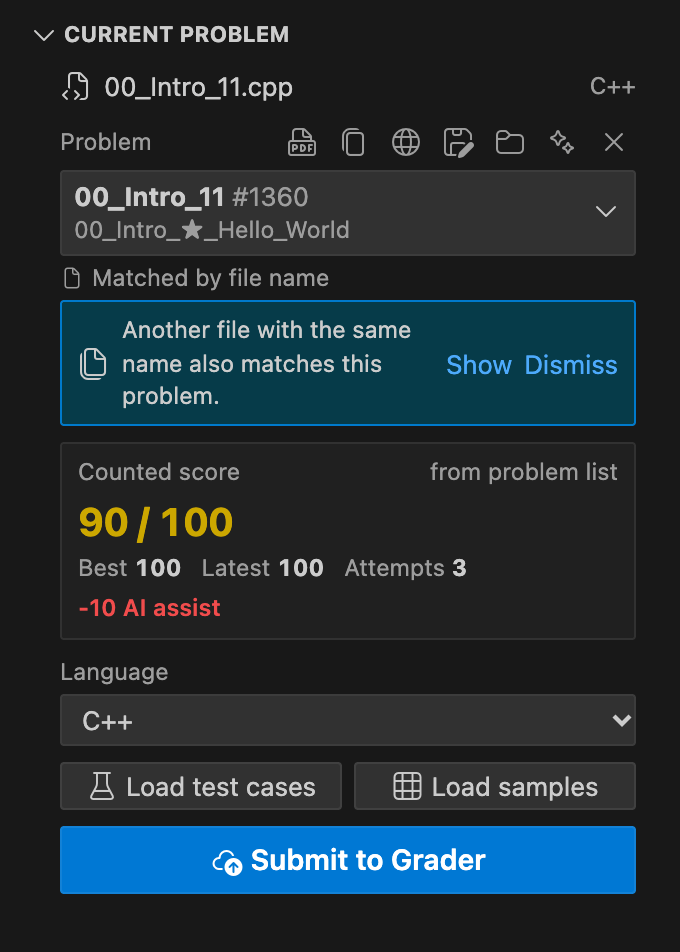
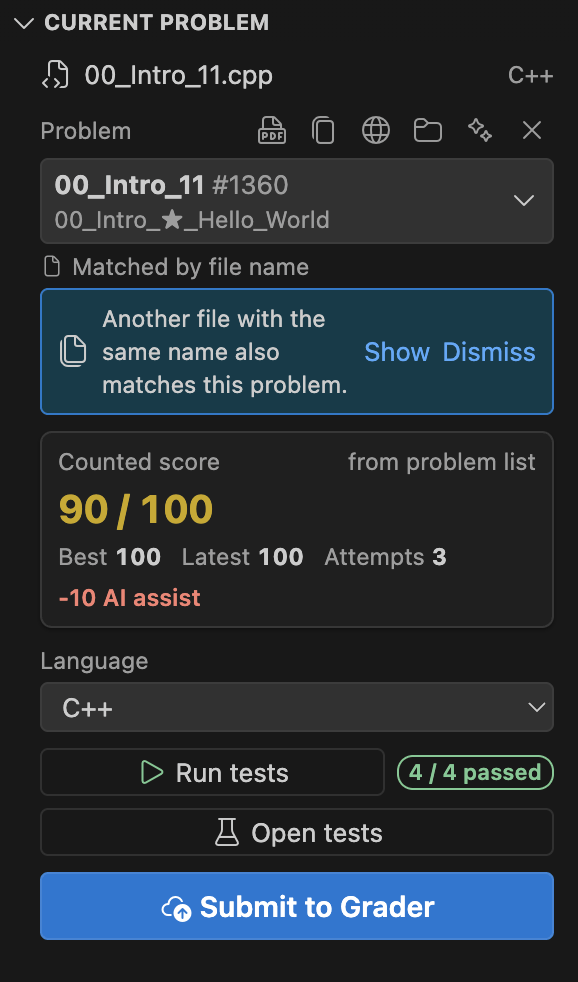
Retake v1.1.0 EN and TH screenshots in macOS VS Code and update docs

diff --git a/USERGUIDE.th.md b/USERGUIDE.th.md
@@ -2,7 +2,7 @@
 
 [English](USERGUIDE.md) · **ภาษาไทย**
 
-[**← กลับไปหน้า README**](README.th.md) · [**คู่มือสำหรับนักพัฒนา (`DEVGUIDE.th.md`)**](DEVGUIDE.th.md) · [**การขอความช่วยเหลือ (`SUPPORT.th.md`)**](SUPPORT.th.md) · [**ประวัติการเปลี่ยนแปลง (`CHANGELOG.md`)**](CHANGELOG.md)
+[**← กลับไปหน้า README**](README.th.md) · [**คู่มือสำหรับนักพัฒนา (`DEVGUIDE.md`)**](DEVGUIDE.md) · [**การขอความช่วยเหลือ (`SUPPORT.md`)**](SUPPORT.md) · [**ประวัติการเปลี่ยนแปลง (`CHANGELOG.md`)**](CHANGELOG.md)
 
 Grader Submit ช่วยให้คุณทำโจทย์บนเซิร์ฟเวอร์ [cafe-grader-web](https://github.com/nattee/cafe-grader-web) ได้ครบทุกขั้นตอนจากใน VS Code ตั้งแต่การจับคู่ไฟล์กับโจทย์ การอ่านโจทย์ PDF ข้างโค้ด ตัวรันทดสอบในตัว การจัดการโจทย์แบบหลายไฟล์ (Folder Mode) การดูผลตรวจสด การเทียบโค้ดกับประวัติการส่ง ป้ายคะแนนใน Explorer ไปจนถึงเอฟเฟกต์ฉลองคะแนนเต็มและหน้าพักสายตา
 
@@ -47,9 +47,17 @@ Grader Submit ช่วยให้คุณทำโจทย์บนเซิ
 - **การย้ายตำแหน่งแผง:** คุณสามารถลากหัวข้อหรือไอคอน **Grader** ไปวางไว้ที่แถบกิจกรรมด้านซ้าย (Primary Sidebar) หรือแผงด้านล่างได้ตามต้องการ โดย VS Code จะจำตำแหน่งที่คุณเลือกไว้เสมอ
 - **สำหรับผู้ใช้ Cursor:** เนื่องจากแถบด้านขวาของ Cursor ถูกจองไว้สำหรับหน้าต่าง AI แผง **Grader** จึงจะเปิดขึ้นทางด้านซ้ายแทน
 
+<p align="center">
+  <img src="media/readme/workbench.th.png" width="760" alt="หน้าต่าง VS Code บน macOS แสดงป้ายคะแนนหน้าชื่อไฟล์ใน Explorer ทางซ้าย เอดิเตอร์โค้ด C++ ตรงกลาง แท็บทดสอบข้างโค้ดที่ล็อกตำแหน่งไว้พร้อมเทียบผลลัพธ์ และแผง Grader บนแถบด้านขวา">
+</p>
+
 ---
 
 ## 2. บัญชี การเลือกเซิร์ฟเวอร์ และปุ่มเปิดเว็บไซต์
+
+<p align="center">
+  <img src="media/readme/account.th.png" width="380" alt="ส่วนบัญชีขณะยังไม่ได้เข้าสู่ระบบ แสดงบรรทัดเซิร์ฟเวอร์พร้อมปุ่มแก้ไข ช่องชื่อผู้ใช้และรหัสผ่าน ช่องติ๊กจำรหัสผ่าน ปุ่มเข้าสู่ระบบ และลิงก์วิธีใช้งานกับการแก้ปัญหาเบื้องต้น">
+</p>
 
 - **บรรทัดเซิร์ฟเวอร์ (`เซิร์ฟเวอร์: <host>`):** ด้านบนสุดของส่วน **บัญชี** ขณะยังไม่ได้เข้าสู่ระบบ จะแสดง `เซิร์ฟเวอร์: cedt-grader.nattee.net` เพื่อบอกให้ชัดเจนว่าจะส่งข้อมูลเข้าสู่ระบบไปที่ใด
 - **การเปลี่ยนเซิร์ฟเวอร์:** คลิกปุ่ม **✎** ท้ายบรรทัด `เซิร์ฟเวอร์:` เพื่อกรอก URL ของเซิร์ฟเวอร์ `cafe-grader-web` อื่น (หรือตั้งค่าที่ `cedtGrader.baseUrl` ใน **User Settings**) ขณะที่คุณพิมพ์หรือกด <kbd>Enter</kbd> ส่วนขยายจะตรวจสอบให้ก่อนว่าเซิร์ฟเวอร์นั้นติดต่อได้และรองรับการใช้งาน (`เซิร์ฟเวอร์นี้พร้อมใช้งาน`) ก่อนที่จะส่งรหัสผ่านของคุณออกไป หากต้องการกลับมาใช้ค่าเดิมให้คลิก **ใช้เซิร์ฟเวอร์เริ่มต้น**
@@ -144,9 +152,13 @@ Grader Submit ช่วยให้คุณทำโจทย์บนเซิ
 
 Grader Submit มีตัวรันทดสอบบนเครื่องที่พร้อมใช้งานทันทีสำหรับภาษา **C++** (`gnu++17 -O2 -DEVAL`), **C** (`gnu11 -O2 -DEVAL`), **Python**, **Java**, **Rust**, **Go**, **Haskell**, **Ruby**, **Pascal** และ **PHP**
 
+<p align="center">
+  <img src="media/readme/tests.th.png" width="380" alt="หน้าต่างทดสอบข้างโค้ดแสดงผลผ่าน 3 / 4 ปุ่มรันทั้งหมด โหลด test case โหลดตัวอย่าง และการกางดูเคสที่ได้ผลลัพธ์ไม่ตรงเพื่อเทียบผลที่ควรได้กับผลที่ได้จริง">
+</p>
+
 ### การโหลด Test Case
 
-ในส่วน **โจทย์ปัจจุบัน** (และด้านบนของหน้า **ทดสอบ**) จะมีปุ่มโหลด 2 ปุ่มวางคู่กัน:
+ด้านบนของหน้า **ทดสอบ** (หรือเรียกผ่าน Command Palette) จะมีปุ่มโหลด 2 ปุ่มวางคู่กัน:
 
 - **โหลด test case:** ดาวน์โหลด test case จาก API ของ Grader (สำหรับโจทย์ที่เปิดให้ดาวน์โหลด) โดยตัดเคสที่ซ้ำกันออกให้อัตโนมัติ และในโหมดโฟลเดอร์จะตัดบรรทัดสุดท้าย `KEY: …` ที่มีเฉพาะใน `main` ของเซิร์ฟเวอร์ออกให้ เพื่อให้รันทดสอบบนเครื่องแล้วตรงกับคำตอบจริง
 - **โหลดตัวอย่าง:** อ่านตารางตัวอย่างอินพุตและเอาต์พุตจากไฟล์ PDF ของโจทย์โดยตรง ใช้ได้กับโจทย์ทุกข้อที่มีตารางตัวอย่างใน PDF แม้ว่าโจทย์นั้นจะไม่เปิดให้ดาวน์โหลด test case จาก Grader ก็ตาม
@@ -219,6 +231,10 @@ Grader Submit มีตัวรันทดสอบบนเครื่อง
 
 Grader Submit แสดงป้ายกำกับและสีสถานะท้ายชื่อไฟล์และโฟลเดอร์โจทย์ใน Explorer รวมถึงแท็บเอดิเตอร์โดยไม่ต้องส่งคำขอเครือข่ายเพิ่ม:
 
+<p align="center">
+  <img src="media/readme/explorer.th.png" width="340" alt="แถบ Explorer ของ VS Code แสดงชื่อไฟล์โค้ดและโฟลเดอร์โจทย์พร้อมป้ายคะแนนที่นับและสีตามสถานะ">
+</p>
+
 - **รูปแบบป้ายกำกับ (`cedtGrader.explorer.badge`):**
   - `score` (ค่าเริ่มต้น): แสดง `✓` เมื่อได้คะแนนเต็ม (`100`), แสดงตัวเลข `0`–`99` เมื่อเคยส่งแล้วแต่ยังไม่เต็ม และแสดง `–` เมื่อยังไม่เคยส่ง
   - `tag`: แสดงอักษรย่อ 2 ตัวแรกของแท็กหัวข้อแรกของโจทย์ (เช่น `GR`, `DP`) และแสดงแท็กทั้งหมดพร้อมคะแนนที่นับเมื่อชี้เมาส์
@@ -230,6 +246,10 @@ Grader Submit แสดงป้ายกำกับและสีสถาน
 ## 11. เอฟเฟกต์ฉลอง ถ้วยรางวัล และหน้าพักสายตา
 
 ควบคุมด้วยสวิตช์หลัก `cedtGrader.fun.enabled` (ค่าเริ่มต้น `true`; หากเปลี่ยนเป็น `false` จะซ่อนส่วนถ้วยรางวัลและปิดการทำงานอัตโนมัติทั้งหมด แต่ยังสั่งรันคำสั่งจาก Command Palette เองได้):
+
+<p align="center">
+  <img src="media/readme/trophies.th.png" width="380" alt="ส่วนถ้วยรางวัลแสดงจำนวนข้อที่ได้ 100 วันต่อเนื่องพร้อมสถิติสูงสุด หมวดที่เก็บครบ และแถบความคืบหน้าแต่ละหมวด">
+</p>
 
 - **เอฟเฟกต์ฉลองเมื่อได้คะแนนเต็มครั้งแรก (`cedtGrader.fun.celebrate`):** เมื่อโจทย์ข้อนั้นได้คะแนนที่นับครบ `100` เป็นครั้งแรก (หรือผ่านครบทุกเคสสำหรับโจทย์คิดคะแนนรวมดิบและโจทย์ที่หักคะแนนคำใบ้) การ์ดผลลัพธ์จะเล่นแอนิเมชันวงแหวน โปรยกระดาษสี และแสดงข้อความปลดล็อกถ้วยรางวัล สามารถกดเล่นซ้ำได้ด้วยคำสั่ง **Grader: เล่นเอฟเฟกต์ฉลอง**
 - **ส่วนถ้วยรางวัล (`Grader: ดูถ้วยรางวัล`):** สรุปจำนวน **ข้อที่ได้ 100**, จำนวน **วันต่อเนื่อง** ที่ทำโจทย์ (พร้อมสถิติสูงสุด), จำนวน **หมวดที่เก็บครบ** และแถบความคืบหน้าของแต่ละหมวดหมู่ในรายวิชา
@@ -295,4 +315,4 @@ Grader Submit แสดงป้ายกำกับและสีสถาน
 
 ### การรายงานข้อผิดพลาด (Crashes & Bug Reports)
 
-- หากเกิดข้อผิดพลาดที่ไม่คาดคิด แผง Grader จะแสดงการ์ด **Grader Submit เกิดข้อผิดพลาด** พร้อมข้อความรายงานที่ตัดโทเค็น รหัสผ่าน และพาธส่วนตัวออกทั้งหมดแล้ว คุณสามารถคลิก **รายงานบน GitHub** เพื่อเปิดหน้าสร้าง Issue พร้อมข้อมูลดังกล่าวได้ทันที หรือดูช่องทางเพิ่มเติมได้ใน [**`SUPPORT.th.md`**](SUPPORT.th.md)
+- หากเกิดข้อผิดพลาดที่ไม่คาดคิด แผง Grader จะแสดงการ์ด **Grader Submit เกิดข้อผิดพลาด** พร้อมข้อความรายงานที่ตัดโทเค็น รหัสผ่าน และพาธส่วนตัวออกทั้งหมดแล้ว คุณสามารถคลิก **รายงานบน GitHub** เพื่อเปิดหน้าสร้าง Issue พร้อมข้อมูลดังกล่าวได้ทันที หรือดูช่องทางเพิ่มเติมได้ใน [**`SUPPORT.md`**](SUPPORT.md)

diff --git a/README.th.md b/README.th.md
@@ -16,11 +16,19 @@
 > **หมายเหตุ:** ส่วนขยายนี้เป็นเครื่องมือช่วยจัดการขั้นตอนการเขียนและส่งโค้ดอย่างไม่เป็นทางการ (Unofficial Developer Workflow Extension) ไม่ได้พัฒนาโดยผู้ดูแลระบบ Grader
 
 <p align="center">
-  <img src="media/readme/panel.th.png" width="320" alt="แผง Grader Submit ใน VS Code แสดงส่วนบัญชี โจทย์ปัจจุบันพร้อมคะแนนที่นับ 90 / 100 ผลลัพธ์รายเคส ประวัติการส่ง และรายการโจทย์ทั้งหมด">
-  &nbsp;&nbsp;
-  <img src="media/readme/current.th.png" width="320" alt="ส่วนโจทย์ปัจจุบันแสดงไฟล์ 00_Intro_11.cpp ที่ตรงกับชื่อไฟล์ คะแนนที่นับ 90 / 100 ปุ่มโหลด test case และโหลดตัวอย่างคู่กัน ปุ่มรันทดสอบ เปิดหน้าทดสอบ และปุ่ม Submit ไปยัง Grader">
+  <img src="media/readme/workbench.th.png" width="760" alt="หน้าต่าง VS Code บน macOS แสดงป้ายคะแนนหน้าชื่อไฟล์ใน Explorer ทางซ้าย เอดิเตอร์โค้ด C++ ตรงกลาง แท็บทดสอบข้างโค้ดที่ล็อกตำแหน่งไว้พร้อมเทียบผลลัพธ์ และแผง Grader บนแถบด้านขวา">
   <br>
-  <em>แผง Grader บนแถบด้านข้างฝั่งขวา (Secondary Sidebar) และส่วนโจทย์ปัจจุบันพร้อมปุ่มโหลดและรัน test case บนเครื่อง</em>
+  <em>หน้าต่างการทำงานแบบครบวงจรใน VS Code: ป้ายคะแนนใน Explorer ทางซ้าย โค้ดและหน้าต่างทดสอบตรงกลาง และแผง Grader บนแถบด้านขวา</em>
+</p>
+
+<p align="center">
+  <img src="media/readme/panel.th.png" width="260" alt="แผง Grader Submit ใน VS Code แสดงส่วนบัญชี โจทย์ปัจจุบันพร้อมคะแนนที่นับ 90 / 100 ผลลัพธ์รายเคส ประวัติการส่ง และรายการโจทย์ทั้งหมด">
+  &nbsp;&nbsp;
+  <img src="media/readme/current.th.png" width="260" alt="ส่วนโจทย์ปัจจุบันแสดงไฟล์ 00_Intro_11.cpp ที่ตรงกับชื่อไฟล์ คะแนนที่นับ 90 / 100 ปุ่มรันทดสอบ เปิดหน้าทดสอบ และปุ่ม Submit ไปยัง Grader">
+  &nbsp;&nbsp;
+  <img src="media/readme/tests.th.png" width="260" alt="หน้าต่างทดสอบข้างโค้ดแสดงผลผ่าน 3 / 4 ปุ่มรันทั้งหมด โหลด test case โหลดตัวอย่าง และการกางดูเคสที่ได้ผลลัพธ์ไม่ตรงเพื่อเทียบผลที่ควรได้กับผลที่ได้จริง">
+  <br>
+  <em>ซ้าย: แผง Grader แบบเต็ม · กลาง: ส่วนโจทย์ปัจจุบัน · ขวา: หน้าต่างทดสอบในตัวพร้อมเทียบความต่างของผลลัพธ์</em>
 </p>
 
 ## เริ่มต้นใช้งานอย่างรวดเร็ว (< 60 วินาที)
@@ -33,7 +41,7 @@
 4. **รันทดสอบบนเครื่อง:** คลิก **โหลด test case** หรือ **โหลดตัวอย่าง** จากนั้นกด **รันทดสอบ** (หรือกด **เปิดหน้าทดสอบ** เพื่อดูอินพุต ผลลัพธ์ และจุดที่ต่างกันข้างโค้ดของคุณ)
 5. **ส่งงาน:** กด **Submit ไปยัง Grader** เพื่อส่งตรวจและดูผลตรวจรายเคสพร้อมคะแนนที่นับทันที
 
-**เอกสารคู่มือ:** [**คู่มือการใช้งาน (`USERGUIDE.th.md`)**](USERGUIDE.th.md) · [**คู่มือสำหรับนักพัฒนา (`DEVGUIDE.th.md`)**](DEVGUIDE.th.md) · [**การขอความช่วยเหลือ (`SUPPORT.th.md`)**](SUPPORT.th.md) · [**ประวัติการเปลี่ยนแปลง (`CHANGELOG.md`)**](CHANGELOG.md)
+**เอกสารคู่มือ:** [**คู่มือการใช้งาน (`USERGUIDE.th.md`)**](USERGUIDE.th.md) · [**คู่มือสำหรับนักพัฒนา (`DEVGUIDE.md`)**](DEVGUIDE.md) · [**การขอความช่วยเหลือ (`SUPPORT.md`)**](SUPPORT.md) · [**ประวัติการเปลี่ยนแปลง (`CHANGELOG.md`)**](CHANGELOG.md)
 
 ---
 
@@ -66,6 +74,14 @@
   <img src="media/readme/problems.th.png" width="320" alt="ส่วนโจทย์ทั้งหมดแสดงแท็บกรองตามสถานะ ช่องค้นหา ปุ่มเรียงลำดับ ปุ่มหัวข้อ 3 สถานะ เมนูแท็ก และแถวโจทย์พร้อมคะแนนที่นับ">
   <br>
   <em>ซ้าย: ประวัติการส่งพร้อมปุ่มเทียบโค้ดกับไฟล์ปัจจุบันในคลิกเดียว · ขวา: รายการโจทย์พร้อมตัวกรองสถานะ หัวข้อ และแท็ก</em>
+</p>
+
+<p align="center">
+  <img src="media/readme/explorer.th.png" width="320" alt="แถบ Explorer ของ VS Code แสดงชื่อไฟล์โค้ดและโฟลเดอร์โจทย์พร้อมป้ายคะแนนที่นับและสีตามสถานะ">
+  &nbsp;&nbsp;
+  <img src="media/readme/trophies.th.png" width="320" alt="ส่วนถ้วยรางวัลแสดงจำนวนข้อที่ได้ 100 วันต่อเนื่องพร้อมสถิติสูงสุด หมวดที่เก็บครบ และแถบความคืบหน้าแต่ละหมวด">
+  <br>
+  <em>ซ้าย: ป้ายคะแนนใน Explorer บนไฟล์และโฟลเดอร์ที่เชื่อมไว้ · ขวา: ส่วนถ้วยรางวัลสรุปข้อที่ได้เต็ม สถิติวันต่อเนื่อง และความคืบหน้าแต่ละหมวด</em>
 </p>
 
 ---
@@ -169,7 +185,7 @@
 
 ## การแก้ปัญหาเบื้องต้น
 
-คุณสามารถเปิดส่วนนี้ได้จากลิงก์ในส่วน **บัญชี** (ขณะยังไม่เข้าสู่ระบบ) แถบแจ้งเตือนการเชื่อมต่อ และเมนู **⋯** มุมขวาบนของแผง (**Grader: การแก้ปัญหาเบื้องต้น**) ดูรายละเอียดเพิ่มเติมและการแจ้งปัญหาได้ที่ [**`USERGUIDE.th.md#การแก้ปัญหาเบื้องต้น`**](USERGUIDE.th.md#การแก้ปัญหาเบื้องต้น) และ [**`SUPPORT.th.md`**](SUPPORT.th.md)
+คุณสามารถเปิดส่วนนี้ได้จากลิงก์ในส่วน **บัญชี** (ขณะยังไม่เข้าสู่ระบบ) แถบแจ้งเตือนการเชื่อมต่อ และเมนู **⋯** มุมขวาบนของแผง (**Grader: การแก้ปัญหาเบื้องต้น**) ดูรายละเอียดเพิ่มเติมและการแจ้งปัญหาได้ที่ [**`USERGUIDE.th.md#การแก้ปัญหาเบื้องต้น`**](USERGUIDE.th.md#การแก้ปัญหาเบื้องต้น) และ [**`SUPPORT.md`**](SUPPORT.md)
 
 <p align="center">
   <img src="media/readme/banner.th.png" width="320" alt="แถบแจ้งเตือนไม่มีการเชื่อมต่ออินเทอร์เน็ตพร้อมปุ่มลองใหม่และลิงก์การแก้ปัญหาเบื้องต้น โดยที่ประวัติการส่งที่บันทึกไว้ยังเปิดดูได้ด้านล่าง">

diff --git a/USERGUIDE.md b/USERGUIDE.md
@@ -47,9 +47,17 @@ Requires **VS Code 1.106 or newer**.
 - **Moving the Panel:** Drag the **Grader** title or icon to the left Activity Bar (Primary Sidebar) or bottom Panel. VS Code remembers your placement across restarts and updates.
 - **Cursor Note:** In Cursor (where the right sidebar is reserved for Cursor's AI pane), the **Grader** panel opens in the Primary Sidebar on the left.
 
+<p align="center">
+  <img src="media/readme/workbench.png" width="760" alt="Full macOS VS Code window showing Explorer file score badges on the left, C++ solution code in the center, the locked Tests split view with inline diffs beside the code, and the Grader panel in the Secondary Sidebar on the right">
+</p>
+
 ---
 
 ## 2. Account, Server Selection & Website Link
+
+<p align="center">
+  <img src="media/readme/account.png" width="380" alt="Logged-out Account section showing the Server line with edit button, Username and Password inputs, Remember password checkbox, Log in button, and How to use and Troubleshooting links">
+</p>
 
 - **Server Line (`Server: <host>`):** At the top of the logged-out **Account** section, `Server: cedt-grader.nattee.net` shows which `cafe-grader-web` server will receive your login.
 - **Changing the Server:** Click the **✎** (edit) button next to `Server:` to enter another `cafe-grader-web` URL (or set `cedtGrader.baseUrl` in your **User Settings**). As you type or press <kbd>Enter</kbd>, the extension checks whether the server is reachable and compatible (`Works with Grader Submit`) before your password is ever sent. Click **Use the default server** to switch back to `https://cedt-grader.nattee.net`.
@@ -144,9 +152,13 @@ Hover either dropdown (`Automatic: <file>`) to see why that file was selected, o
 
 Grader Submit includes a zero-configuration local test runner for **C++** (`gnu++17 -O2 -DEVAL`), **C** (`gnu11 -O2 -DEVAL`), **Python**, **Java**, **Rust**, **Go**, **Haskell**, **Ruby**, **Pascal**, and **PHP**.
 
+<p align="center">
+  <img src="media/readme/tests.png" width="380" alt="Built-in Tests split view showing 3 / 4 passed, Run all, Load test cases, Load samples, and an expanded Wrong Answer test case with inline Expected vs Actual diff">
+</p>
+
 ### Loading Cases
 
-In **Current problem** (and at the top of the **Tests** split view), two buttons sit side by side:
+At the top of the **Tests** split view (or from the Command Palette), two buttons sit side by side:
 
 - **Load test cases:** Downloads official test cases from the grader API (for problems that publish them). Cases are deduplicated automatically, and trailing `KEY: …` lines printed only by the grader's secret driver are stripped in Folder Mode so local runs match.
 - **Load samples:** Reads the example input/output table directly from the problem statement PDF — works on any problem with a ruled PDF example table, even when the grader hides official test cases.
@@ -219,6 +231,10 @@ Click the PDF icon (**Open statement** or `Grader: Open Problem Statement`) to o
 
 Grader Submit decorates files and Folder Mode folders in the VS Code Explorer and editor tabs without scanning the network:
 
+<p align="center">
+  <img src="media/readme/explorer.png" width="340" alt="VS Code Explorer sidebar showing linked source files and a package folder with counted score badges and status colours">
+</p>
+
 - **Badge Mode (`cedtGrader.explorer.badge`):**
   - `score` (default): shows `✓` for a full score (`100`), `0`–`99` for partial/zero scores, and `–` for untried problems.
   - `tag`: shows the first two letters of the problem's first topic tag (e.g. `GR`, `DP`), with all tags and the counted score in the hover tooltip.
@@ -230,6 +246,10 @@ Grader Submit decorates files and Folder Mode folders in the VS Code Explorer an
 ## 11. Celebrations, Trophies & Break Scenes
 
 Controlled by `cedtGrader.fun.enabled` (default `true`; turning it `false` hides Trophies and disables automatic triggers while keeping the manual Command Palette commands available):
+
+<p align="center">
+  <img src="media/readme/trophies.png" width="380" alt="Trophies section showing first 100s count, day streak with best streak, completed topics, and per-topic progress bars">
+</p>
 
 - **First-Full-Score Celebration (`cedtGrader.fun.celebrate`):** The first time a problem reaches a counted score of `100` (or passes every test on raw-sum / hint-capped problems), the Result card plays a ring fill, confetti burst, ribbon, and trophy toast. Replay anytime with **Grader: Play Celebration**.
 - **Trophies Section (`Grader: Show Trophies`):** Displays your total **First 100s**, current and best daily **Streak**, **Whole topics** completed, and progress bars for every course topic.

diff --git a/README.md b/README.md
@@ -16,11 +16,19 @@
 > **Note:** This is an unofficial developer workflow extension. It is not made by the grader's maintainers.
 
 <p align="center">
-  <img src="media/readme/panel.png" width="320" alt="The Grader Submit panel in VS Code showing Account, Current problem with a counted score of 90 / 100, Result with per-test verdict tiles, History, and the Problems list">
-  &nbsp;&nbsp;
-  <img src="media/readme/current.png" width="320" alt="Current problem section showing 00_Intro_11.cpp matched by file name, counted score 90 / 100, side-by-side Load test cases and Load samples buttons, Run tests, Open tests, and Submit to Grader">
+  <img src="media/readme/workbench.png" width="760" alt="Full macOS VS Code window showing Explorer file score badges on the left, C++ solution code in the center, the locked Tests split view with inline diffs beside the code, and the Grader panel in the Secondary Sidebar on the right">
   <br>
-  <em>The Grader panel in the Secondary Sidebar and the Current problem workflow with side-by-side test loading and local test execution.</em>
+  <em>Full VS Code workflow: Explorer score badges on the left, code editor and locked Tests split view in the center, and the Grader panel in the Secondary Sidebar on the right.</em>
+</p>
+
+<p align="center">
+  <img src="media/readme/panel.png" width="260" alt="The Grader Submit panel in VS Code showing Account, Current problem with a counted score of 90 / 100, Result with per-test verdict tiles, History, and the Problems list">
+  &nbsp;&nbsp;
+  <img src="media/readme/current.png" width="260" alt="Current problem section showing 00_Intro_11.cpp matched by file name, counted score 90 / 100, side-by-side Load test cases and Load samples buttons, Run tests, Open tests, and Submit to Grader">
+  &nbsp;&nbsp;
+  <img src="media/readme/tests.png" width="260" alt="Built-in Tests split view showing 3 / 4 passed, Run all, Load test cases, Load samples, and an expanded Wrong Answer test case with inline Expected vs Actual diff">
+  <br>
+  <em>Left: Full Grader panel. Center: Current problem section. Right: Built-in Tests split view with inline diffs.</em>
 </p>
 
 ## Quickstart (< 60s)
@@ -66,6 +74,14 @@ Requires **VS Code 1.106 or newer**.
   <img src="media/readme/problems.png" width="320" alt="Problems section showing status filter tabs, search box, sort button, 3-state topic pills, Tags dropdown, and problem rows with counted scores">
   <br>
   <em>Left: Submission history with 1-click diffing against your open file. Right: Problems list with status, topic, and tag filters.</em>
+</p>
+
+<p align="center">
+  <img src="media/readme/explorer.png" width="320" alt="VS Code Explorer sidebar showing linked source files and a package folder with counted score badges and status colours">
+  &nbsp;&nbsp;
+  <img src="media/readme/trophies.png" width="320" alt="Trophies section showing first 100s count, day streak with best streak, completed topics, and per-topic progress bars">
+  <br>
+  <em>Left: Explorer score badges on linked files and folders. Right: Trophies section tracking full scores, streaks, and topic progress.</em>
 </p>
 
 ---

diff --git a/DEVGUIDE.md b/DEVGUIDE.md
@@ -1,7 +1,5 @@
 # Grader Submit — Developer Guide
 
-**English** · [ภาษาไทย](DEVGUIDE.th.md)
-
 [**← Back to README**](README.md) · [**User Guide (`USERGUIDE.md`)**](USERGUIDE.md) · [**Support (`SUPPORT.md`)**](SUPPORT.md) · [**Changelog (`CHANGELOG.md`)**](CHANGELOG.md)
 
 This guide explains how **Grader Submit** is structured, how to build, test, and package the extension locally, and how to extend its grader provider or local test runner.

diff --git a/SUPPORT.md b/SUPPORT.md
@@ -1,7 +1,5 @@
 # Grader Submit — Support
 
-**English** · [ภาษาไทย](SUPPORT.th.md)
-
 [**← Back to README**](README.md) · [**User Guide (`USERGUIDE.md`)**](USERGUIDE.md) · [**Developer Guide (`DEVGUIDE.md`)**](DEVGUIDE.md) · [**Changelog (`CHANGELOG.md`)**](CHANGELOG.md)
 
 Need help with **Grader Submit**? Start with the resources below.
